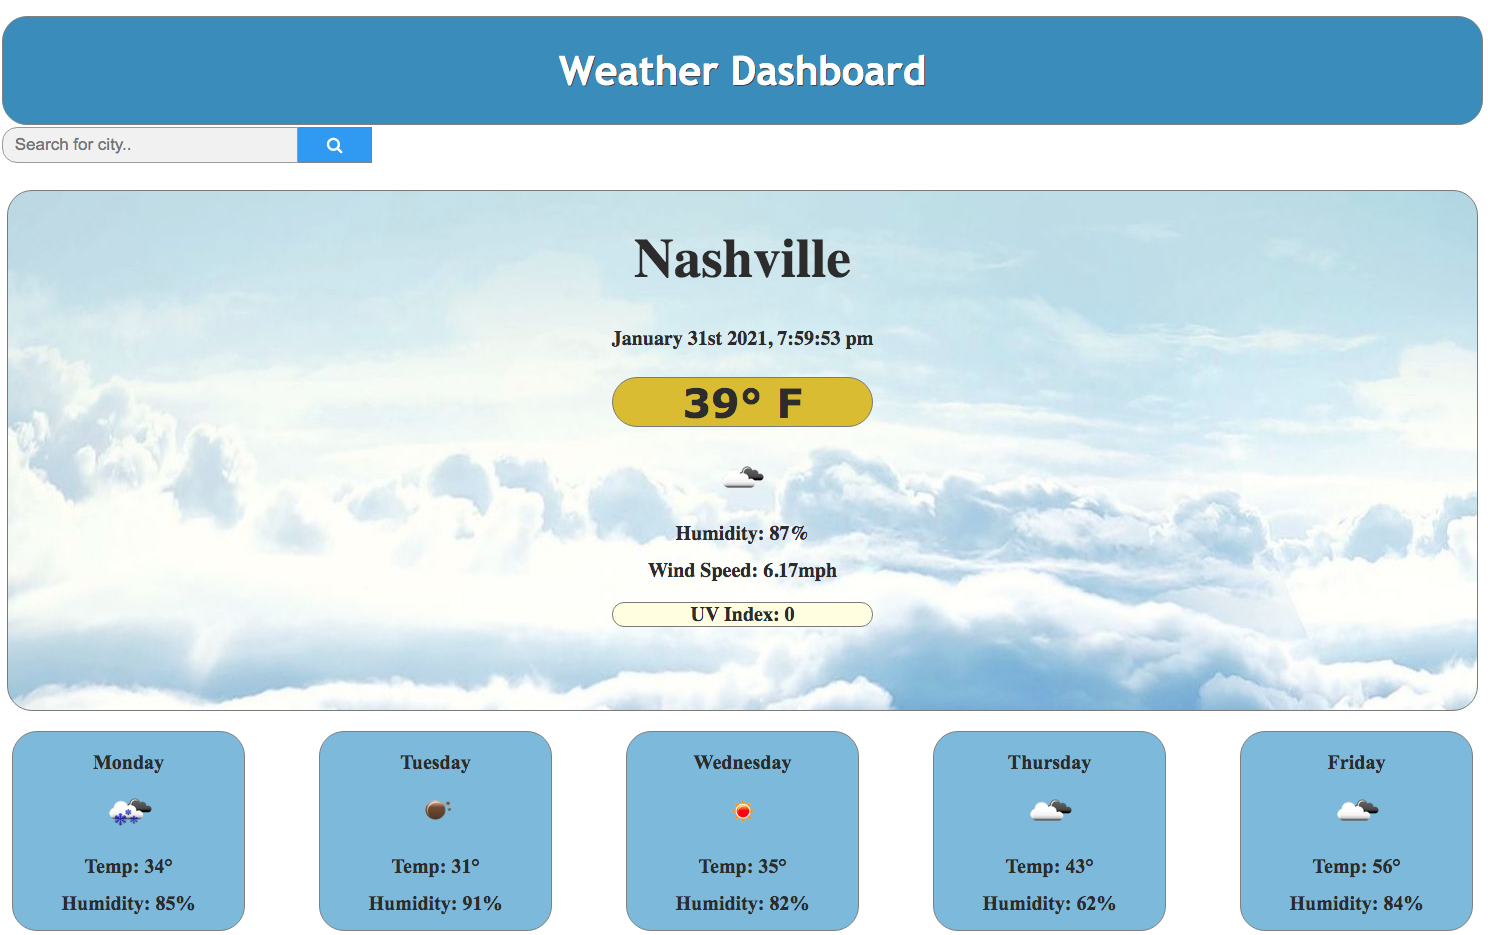
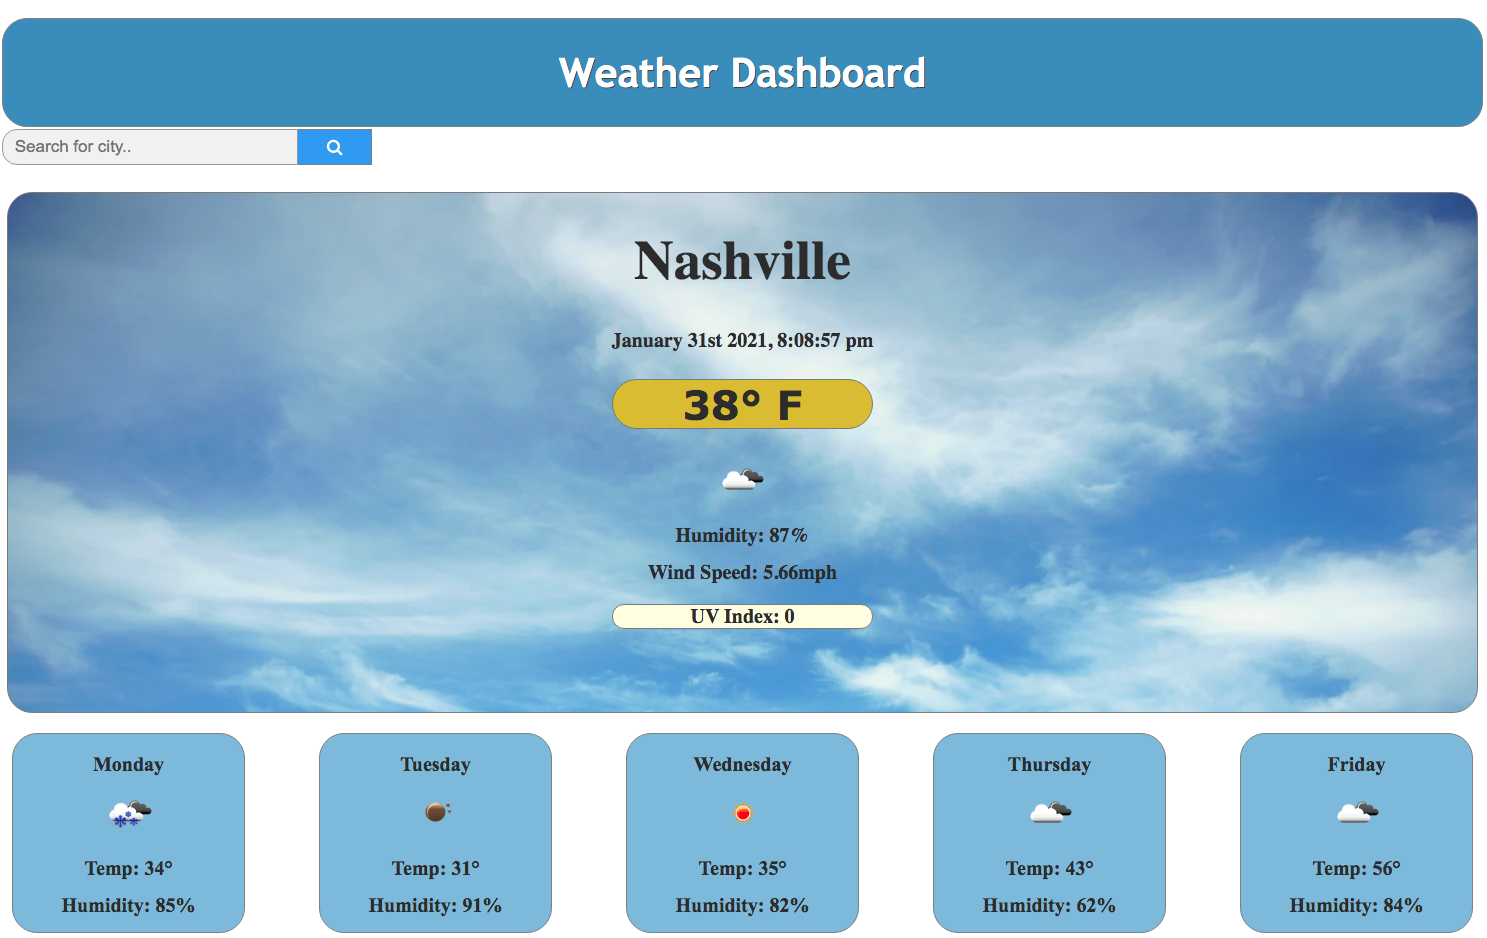
changed screenshot image

diff --git a/Develop/css/style.css b/Develop/css/style.css
@@ -70,7 +70,7 @@ border: 0.75px solid grey;
 }
 
 .container {
-  background-image: url("https://images.unsplash.com/photo-1542349296-b0d510484079?ixlib=rb-1.2.1&ixid=MXwxMjA3fDB8MHxwaG90by1wYWdlfHx8fGVufDB8fHw%3D&auto=format&fit=crop&w=1500&q=80"); 
+  background-image: url("https://images.unsplash.com/photo-1578258571760-e62adb6d4e75?ixid=MXwxMjA3fDB8MHxwaG90by1wYWdlfHx8fGVufDB8fHw%3D&ixlib=rb-1.2.1&auto=format&fit=crop&w=1500&q=80"); 
   margin: 5px;
   border-radius: 25px;
   border: 0.5px solid rgb(122, 122, 122);
